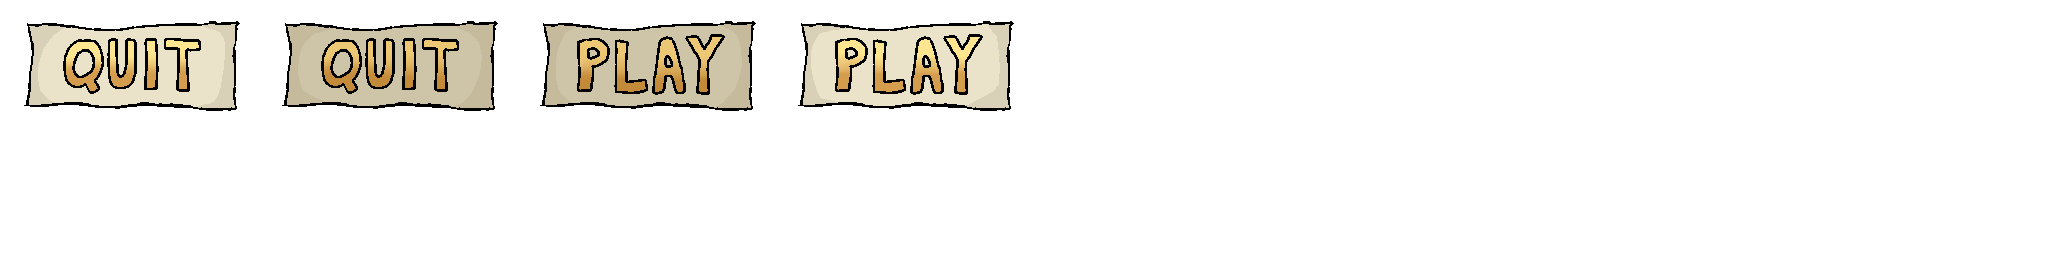
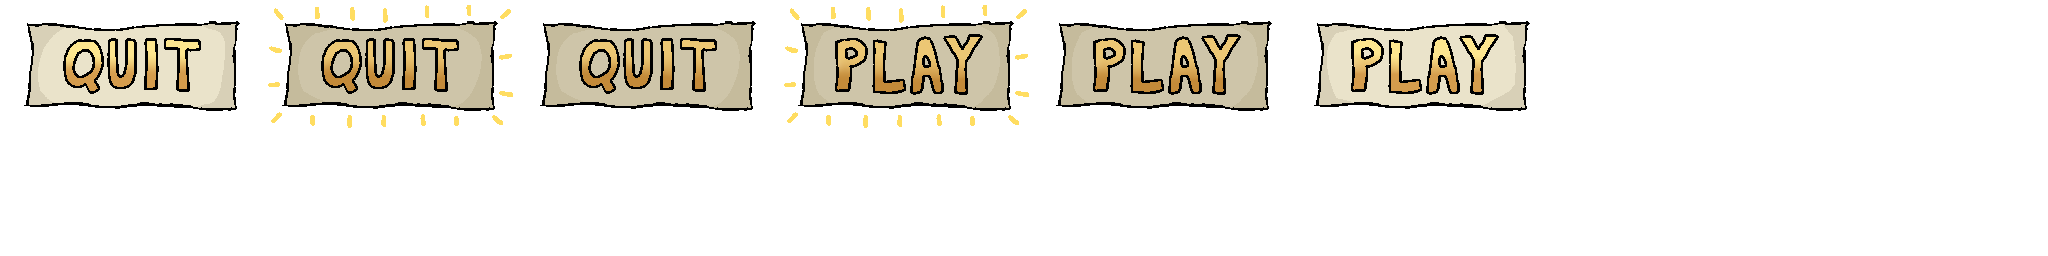
updated buttons.atlas and buttons.png, added textures for clicking buttons

diff --git a/core/src/main/java/io/github/badgersky/BonesAndDice/MainMenuScreen.java b/core/src/main/java/io/github/badgersky/BonesAndDice/MainMenuScreen.java
@@ -32,10 +32,12 @@ public class MainMenuScreen implements Screen {
         ImageButton.ImageButtonStyle playBtnStyle = new ImageButton.ImageButtonStyle();
         playBtnStyle.up = new TextureRegionDrawable(buttonAtlas.findRegion("playbtn"));
         playBtnStyle.over = new TextureRegionDrawable(buttonAtlas.findRegion("playbtn_hover"));
+        playBtnStyle.down = new TextureRegionDrawable(buttonAtlas.findRegion("playbtn_click"));
 
         ImageButton.ImageButtonStyle quitBtnStyle = new ImageButton.ImageButtonStyle();
         quitBtnStyle.up = new TextureRegionDrawable(buttonAtlas.findRegion("quitbtn"));
         quitBtnStyle.over = new TextureRegionDrawable(buttonAtlas.findRegion("quitbtn_hover"));
+        quitBtnStyle.down = new TextureRegionDrawable(buttonAtlas.findRegion("quitbtn_click"));
 
         ImageButton playBtn = new ImageButton(playBtnStyle);
         ImageButton quitBtn = new ImageButton(quitBtnStyle);
